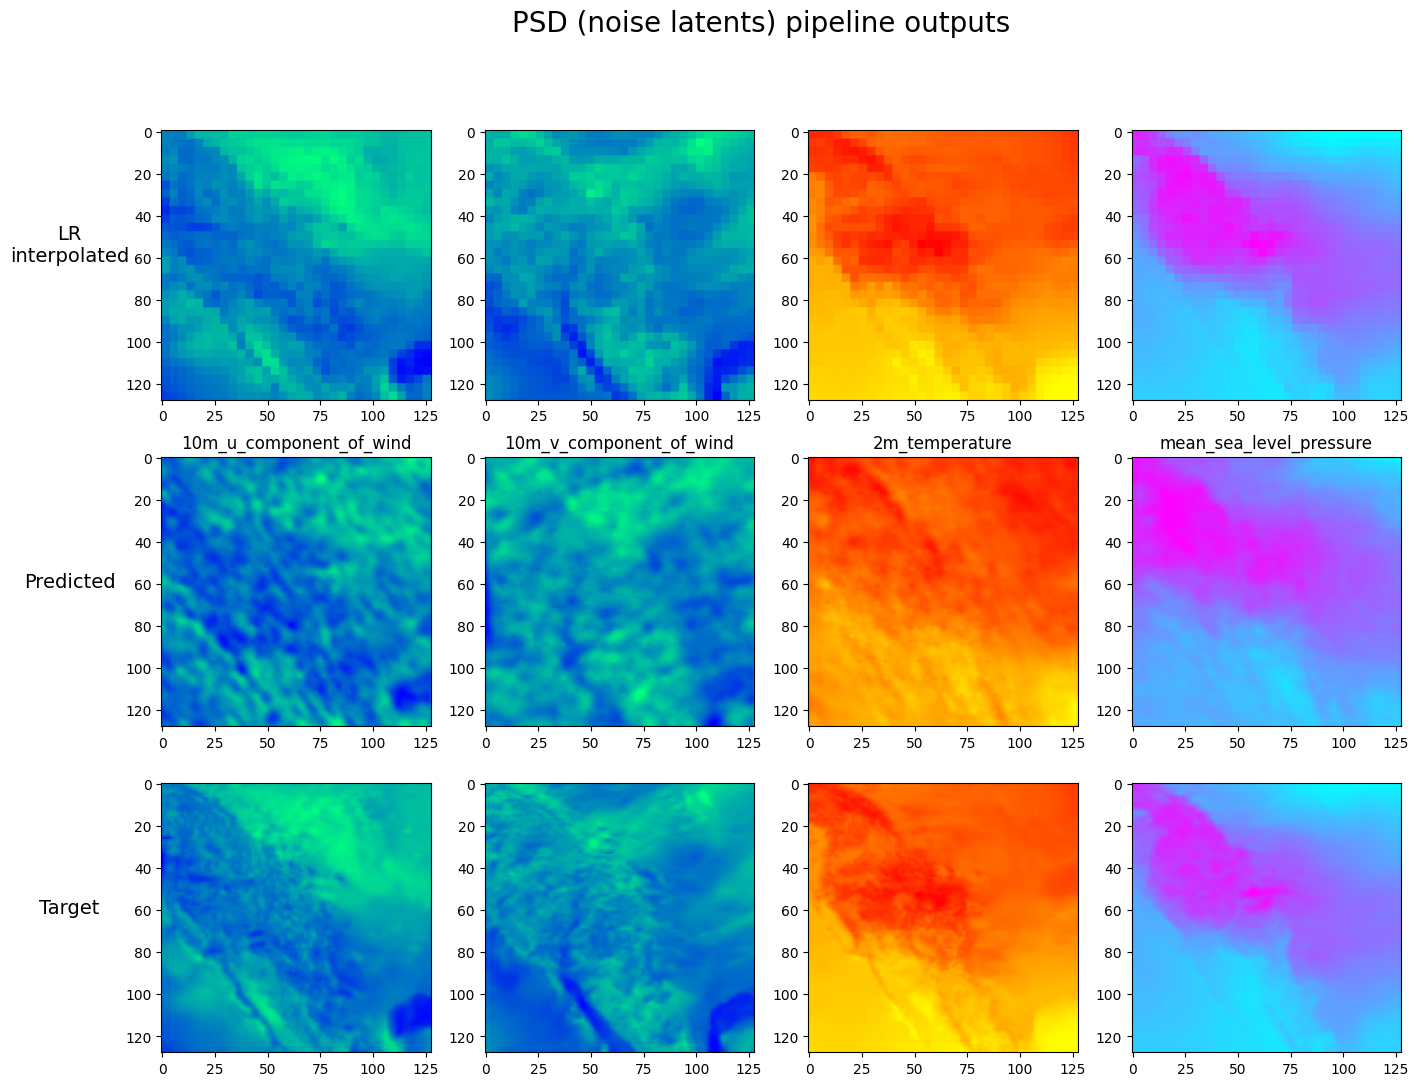
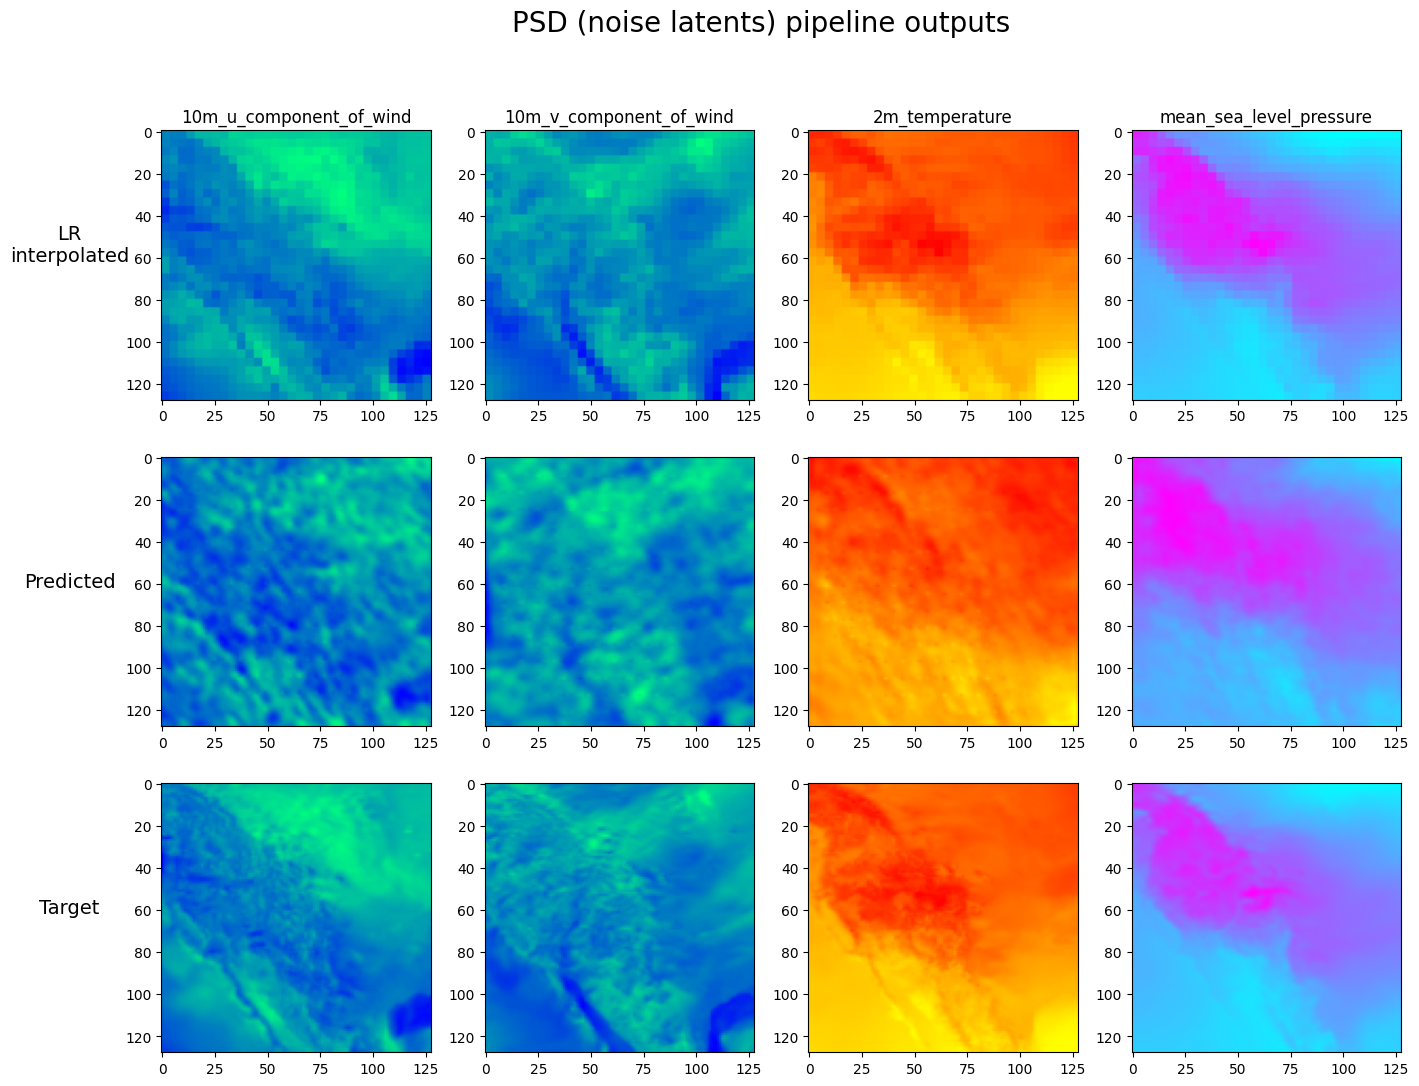
Fix pipeline output channel label position

diff --git a/plot-pipeline-outputs.py b/plot-pipeline-outputs.py
@@ -114,7 +114,7 @@ if __name__ == "__main__":
         predicted_ax: Axes = axs[1, channel_index]
         target_ax: Axes = axs[2, channel_index]
 
-        predicted_ax.set_title(channel)
+        lr_ax.set_title(channel)
 
         cmap = COLOR_MAP[channel]
 
